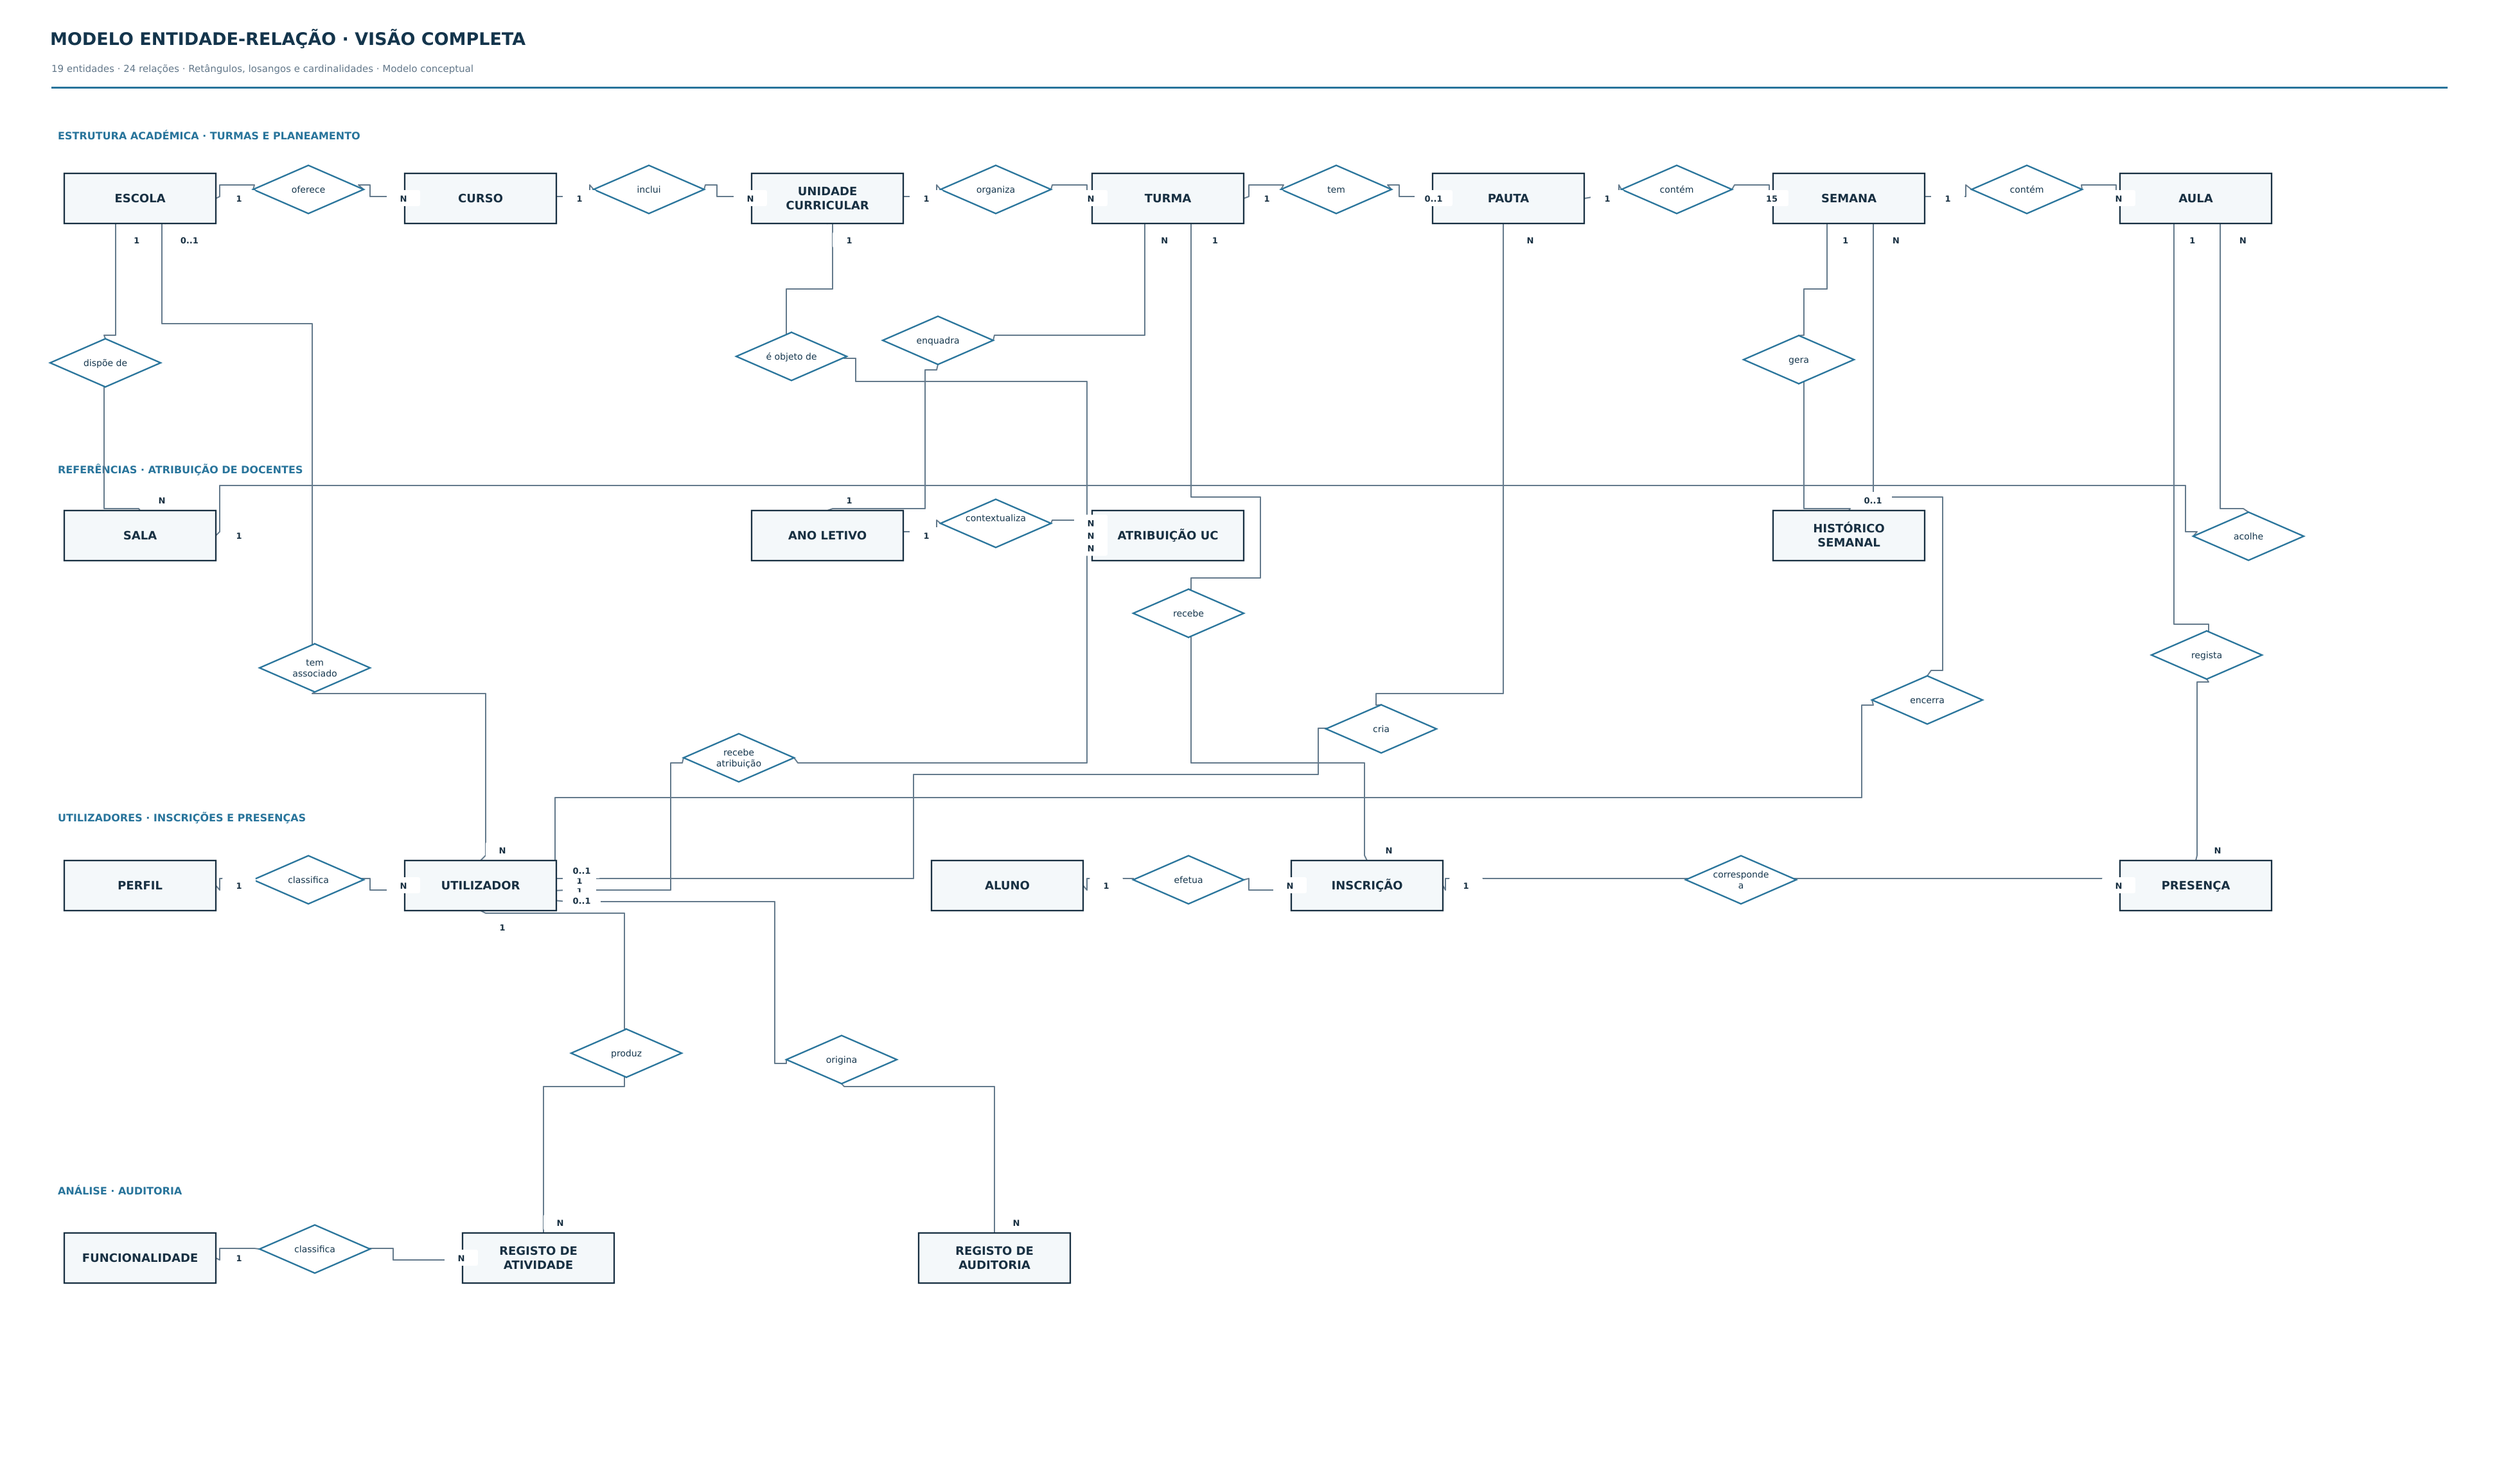
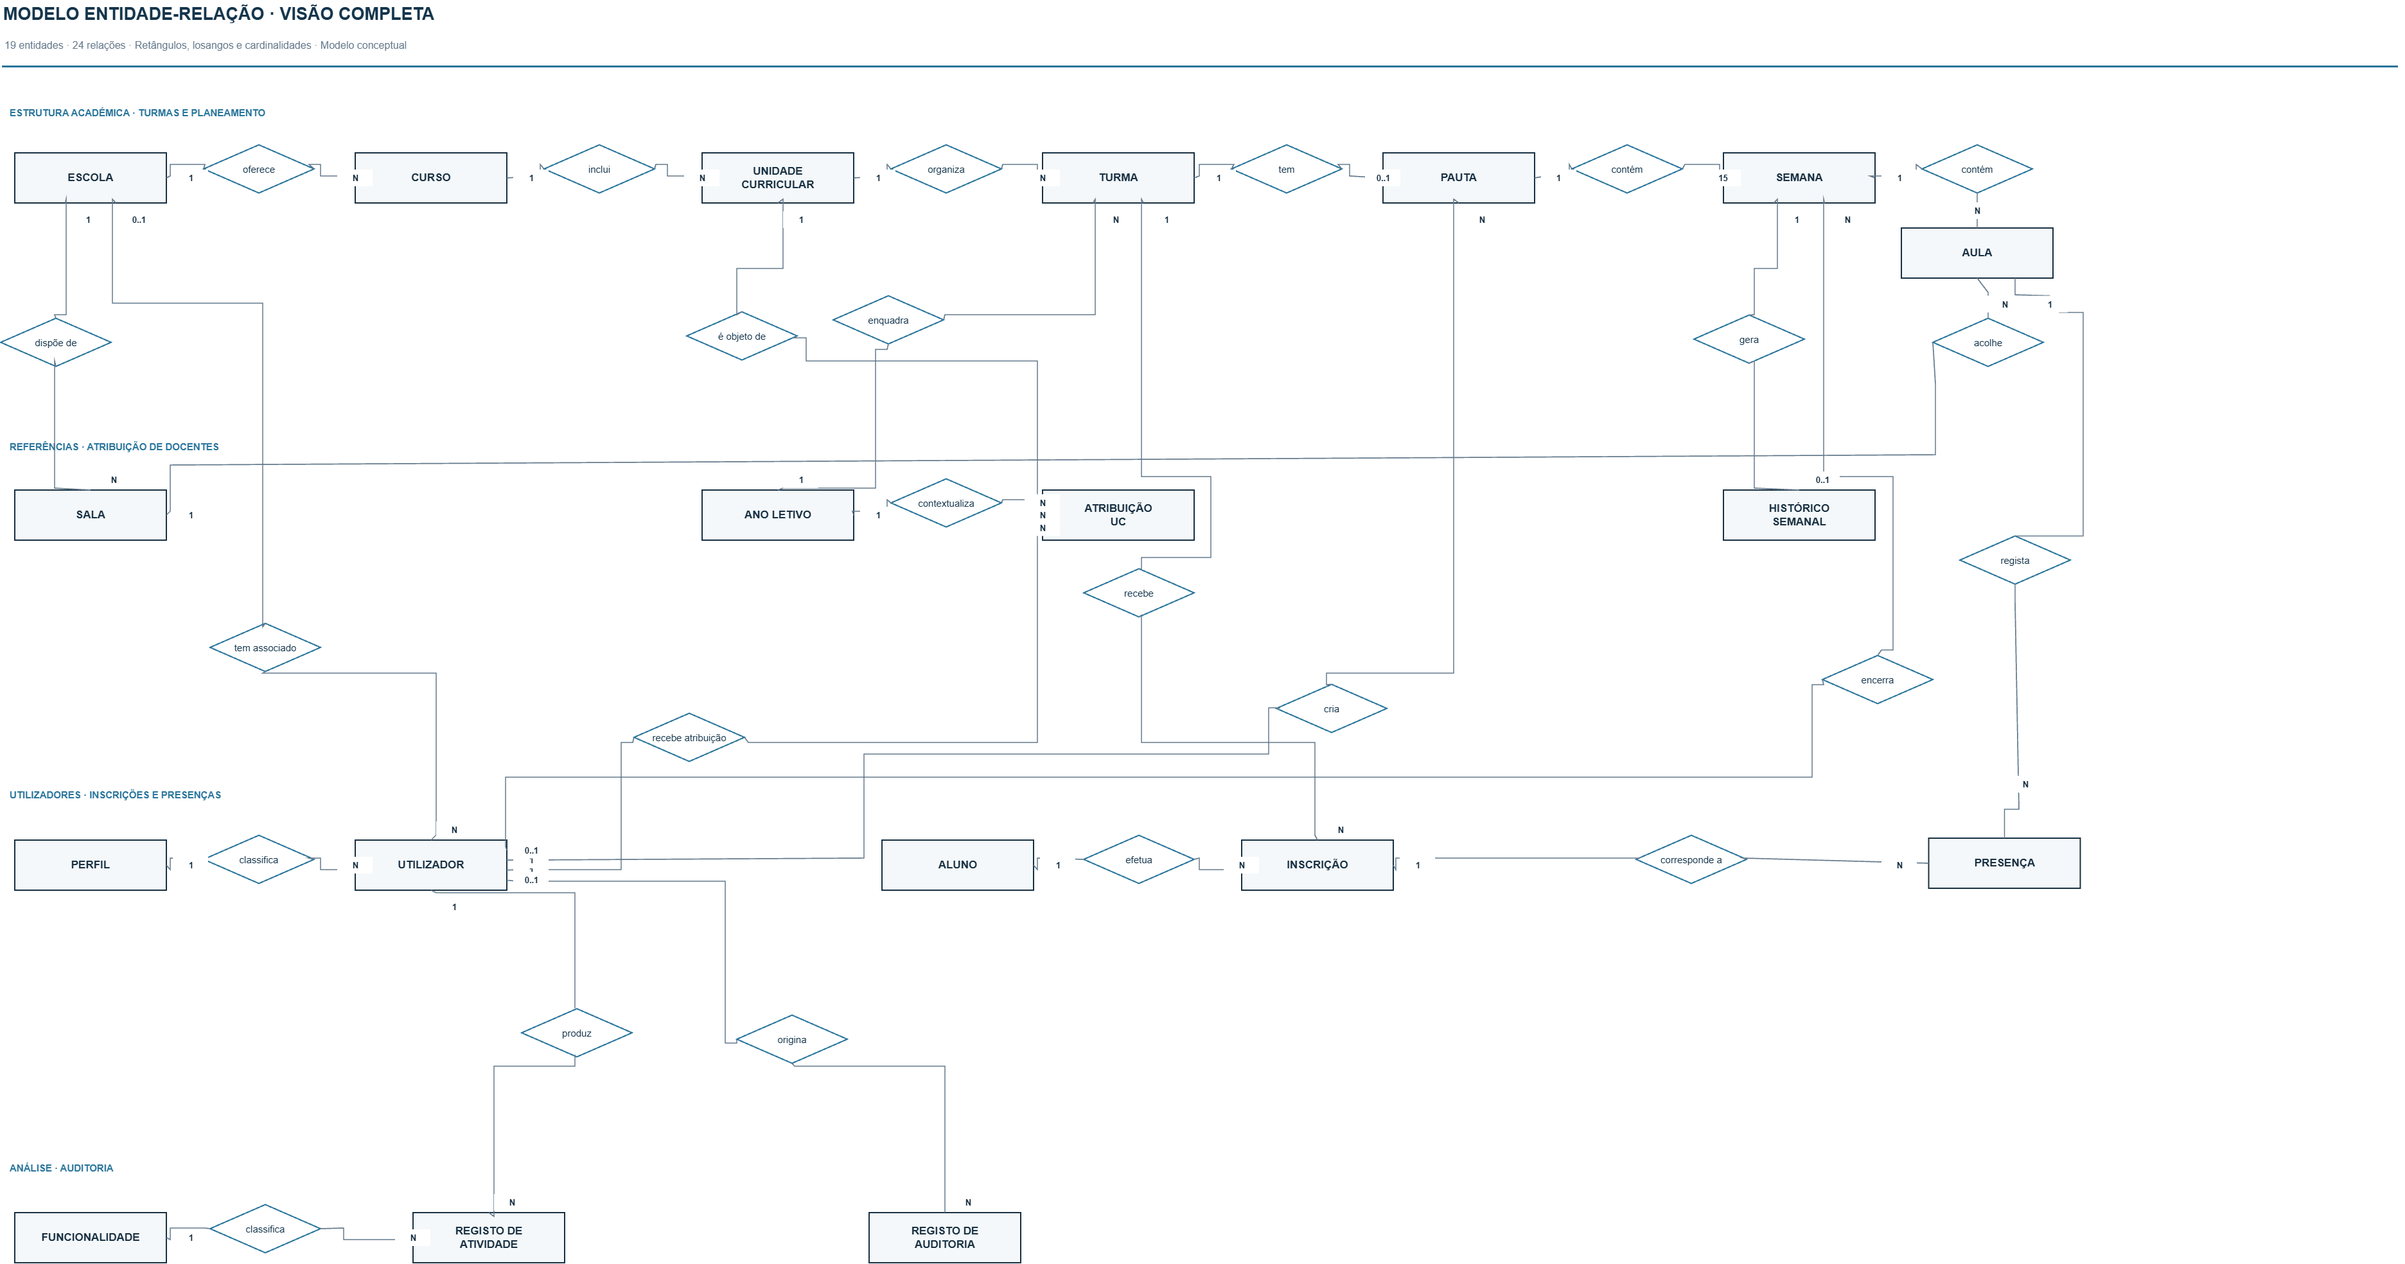
docs: replace diagrams and add final UC wireframes and storyboards

diff --git a/gestao-presencas/prototypes/README.md b/gestao-presencas/prototypes/README.md
@@ -1,0 +1,9 @@
+# Storyboards e wireframes finais — Fase 1
+
+Os ficheiros destas pastas são as **33 imagens finais** recebidas em `ficheiros(2).zip` em 05/11/2026: 3 diagramas em `../diagrams/`, 5 storyboards nesta pasta e 25 wireframes repartidos por UC1–UC5. Foram copiados **sem alteração dos dados de imagem**, com nomes de ficheiro normalizados para facilitar os links Markdown e os comandos Git.
+
+**Índice de todas as imagens:** [04 — Interfaces e storyboards](../docs/fase1/04-prototipos.md).
+
+**Figma (fonte editável dos wireframes):** [DAW 2026–2027 · Gestão de Presenças — Wireframes e Storyboards](https://www.figma.com/design/Xf0du0j4eXayTwgKas7hOE/DAW-2026%E2%80%932027-%C2%B7-Gest%C3%A3o-de-Presen%C3%A7as-%E2%80%94-Wireframes-e-Storyboards).
+
+**Nota:** o ZIP final não trouxe uma imagem separada do storyboard geral nem da Homepage. Os ecrãs de UC5 mostram consulta normal, seleção de período e ausência de dados; não devem ser confundidos com três cópias do mesmo estado.
